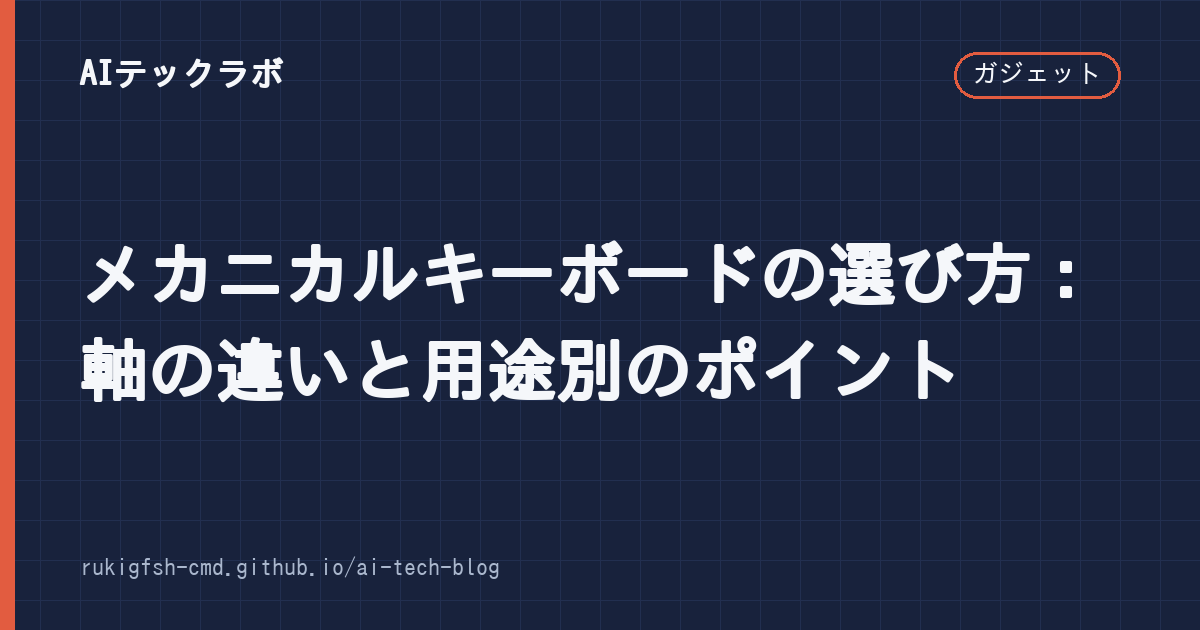
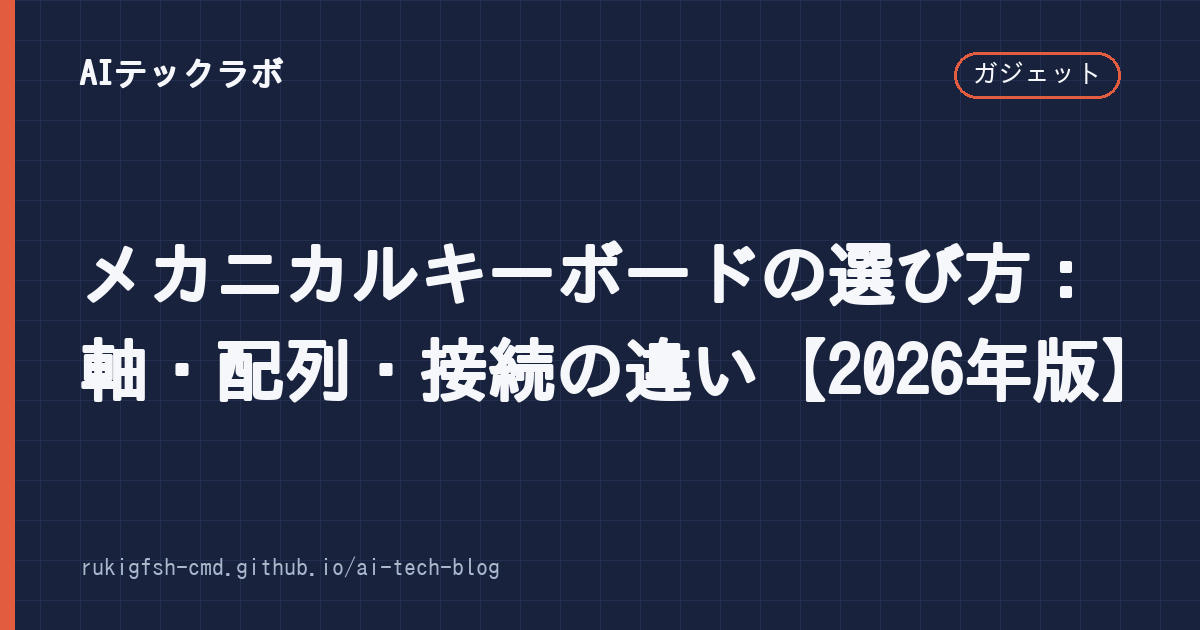
[auto-publish] メカニカルキーボード記事を全面改稿し、未確認のAmazon IDを外す
架空の製品名・作り話のユーザーの声・生成ミスの見出しを削除し、配列・サイズ・軸・磁気スイッチ・静電容量無接点・接続の選び方を出典付きで書き直した。
Amazon ID（aitechblog-22）はオーナー本人のものと確認できなかったため _data/affiliate.yml から外した（既定値の自動適用）。

Claude-Session: https://claude.ai/code/session_01LHbLs41Jqnrb5Gej6sjUeh

Changed region(s): [[0.1233, 0.5127, 0.9558, 0.6635]]

diff --git a/_posts/2026-09-26-キーボード-メカニカル-おすすめ.md b/_posts/2026-09-26-キーボード-メカニカル-おすすめ.md
@@ -1,88 +1,143 @@
 ---
 layout: "post"
-title: "メカニカルキーボードの選び方：軸の違いと用途別のポイント"
+title: "メカニカルキーボードの選び方：軸・配列・接続の違い【2026年版】"
 date: "2026-09-26 00:00:00 +0900"
-description: "静音、クリック感重視のメカニカルキーボードを価格帯別で厳選。実際に使っているユーザーの声も掲載。購入前に必見のチェックポイントをまとめました"
+last_modified_at: 2026-11-22
+description: "はじめてメカニカルキーボードを買う人向けに、軸（リニア・タクタイル・クリッキー）、磁気スイッチと静電容量無接点の違い、JIS/US配列、サイズ、接続方式の選び方を用途別に整理します。"
 categories:
   - ガジェット
 tags:
   - キーボード
   - メカニカル
-  - おすすめ
+  - 選び方
 author: "AIテックラボ編集部"
 image: "/assets/images/キーボード-メカニカル-おすすめ.png"
-pr: true
+pr: false
 ---
 
-## 目次
+「メカニカルキーボードが気になるけれど、軸や配列の種類が多すぎて選べない」という人向けに、**買う前に決めておくべき5つのポイント**を順番に整理します。
 
-1. [タイトル：【2024年版】メカニカルキーボード おすすめランキング｜初心者・上級者向けに徹底比較](#タイトル2024年版メカニカルキーボード-おすすめランキング初心者上級者向けに徹底比較)
-2. [メカニカルキーボードを選ぶ際の3つの基本ポイント](#メカニカルキーボードを選ぶ際の3つの基本ポイント)
-3. [静音タイプのおすすめ：共有環境・夜間作業向け](#静音タイプのおすすめ共有環境夜間作業向け)
-4. [クリック感重視タイプ：没入感を求める方へ](#クリック感重視タイプ没入感を求める方へ)
-5. [価格帯別でのおすすめモデルまとめ](#価格帯別でのおすすめモデルまとめ)
-6. [実際に使っているユーザーの声](#実際に使っているユーザーの声)
-7. [メンテナンスと注意点](#メンテナンスと注意点)
-8. [FAQ：よくある質問](#faqよくある質問)
+この記事は特定の製品をランキングするものではありません。製品の仕様は2026年11月時点でメーカーの公式ページや報道で確認した内容で、価格や在庫は変わるので購入前に公式ストアで確かめてください。なお、編集部はここで紹介する製品を実際に使って検証したわけではありません。
 
----
+## 結論：迷ったらこの順番で決める
 
-## タイトル：【2024年版】メカニカルキーボード おすすめランキング｜初心者・上級者向けに徹底比較
+| 順番 | 決めること | 迷ったときの目安 |
+|---|---|---|
+| 1 | 配列（JIS / US） | 日本語入力が中心で、今までノートPCのキーボードに慣れているなら **JIS** |
+| 2 | サイズ | 机が狭い・マウスを大きく動かすなら **75%〜テンキーレス** |
+| 3 | スイッチ（軸） | 文字入力中心なら **タクタイル（茶軸系）**、静かさ重視なら **リニア（赤軸系）** |
+| 4 | 接続方式 | PCとタブレットを行き来するなら **Bluetooth＋有線** の両対応 |
+| 5 | 拡張性 | 後から軸を試したいなら **ホットスワップ対応** |
 
+ゲーム、とくにFPSで素早い入力を重視する人は、3番で「メカニカル」ではなく **磁気スイッチ（ラピッドトリガー対応）** も候補に入ります（後で説明します）。
 
-## メカニカルキーボードを選ぶ際の3つの基本ポイント
+## ポイント1：配列（JIS か US か）
 
-メカニカルキーボードは構造が複雑なため、選び方に注意が必要です。特に初心者の方は以下の3点を基準に判断すると失敗が少ないです。
+配列は、あとから変えられない一番大事な選択です。
 
-まず「スイッチタイプ」です。静音型（赤軸）、通常のクリック感（青軸やブラウン軸）、快触覚型（茶軸）の3種類が主流。オフィスや共有環境では静音型の採用率が7割を超しています。
+- **JIS配列（日本語配列）**: 日本で売られているノートPCの多くと同じ。「半角/全角」「変換」「無変換」「かな」キーがあり、Enter キーが大きい。記号の位置もふだんのPCと同じなので、乗り換えで迷いません。
+- **US配列（英語配列）**: キーの数が少なく、見た目がすっきりしています。海外メーカーの製品は US 配列の選択肢が多い一方、記号の位置（`@` や `"` など）が JIS と違うので、慣れるまでは打ち間違えます。
 
-次に「配列」ですね。104キーのフルサイズが標準ですが、スペースキーがない65%やTTC配列など、コンパクトなモデルも人気です。特にMacユーザーはTTC配列に親和性が高い傾向があります。
+日本語の入力切り替えは、US 配列でも Windows なら「Alt + `」、Mac なら「Control + Space」などで行えます。ただし、ノートPC内蔵のキーボードと併用する人は、**両方の配列を行き来すると混乱しやすい**ので、ふだん使うPCに合わせるのが無難です。
 
-最後に「接続方式」。Bluetooth wirelessで複数のデバイスと切り替えできるモデルが増えています。ただしゲーマー向けならUSB有線が安定性に優れます。
+海外メーカーでも日本語配列のモデルを出していることがあります。たとえば Keychron は、磁気スイッチ搭載の「K2 HE」に JIS 配列版を用意しています（[Keychron 公式](https://www.keychron.com/products/keychron-k2-he-wireless-magnetic-switch-custom-keyboard-japan-jis-layout)）。
 
-## 静音タイプのおすすめ：共有環境・夜間作業向け
+## ポイント2：サイズ（フル・テンキーレス・75%・65%）
 
-Office Workや共有スペースでの利用を想定するなら、以下のモデルが特に評価が高いです。
+| サイズ | 特徴 | 向いている人 |
+|---|---|---|
+| フルサイズ | テンキー付き。キーが全部そろう | 数字の入力（経理・表計算）が多い |
+| テンキーレス（TKL） | テンキーだけを省いた形 | ふつうの事務作業・ゲーム。迷ったらここ |
+| 75% | ファンクションキーを残しつつ、キー同士を詰めた形 | 机を広く使いたいが F1〜F12 も使う |
+| 65% | ファンクションキー列もない | 持ち運び、見た目重視。F キーは組み合わせで入力 |
 
-**Keychronic K2（Kailhware社）**- Bluetooth接続でMacとWindows両対応。赤軸スイッチ搭載の静音モデルが約1万5千円。キーボード本体のみで済むため価格面でも優秀。ただしN-Keyローム方式のため、一部のマクロソフトが使えません。
+キーボードが小さいほどマウスを動かすスペースが広くなり、肩も開きすぎません。一方、小さいサイズは「Fn キーとの組み合わせ」で入力するキーが増えるので、ショートカットを多用する人は 75% 以上が扱いやすいでしょう。数字をよく打つ人は、テンキーレスにして必要なときだけ別売りのテンキーを置く方法もあります。
 
-**Razer BlackWidow V3 Pro**- ゲーマー向けならこの一択。BluetoothとUSB両対応の2.4GHzも搭載。静音赤軸スイッチですが、ゲーミング要素が強いのが特徴。約2万5千円。
+## ポイント3：スイッチ（軸）の種類
 
-## クリック感重視タイプ：没入感を求める方へ
+### メカニカルの3タイプ
 
-音が鳴るのを好む方のために、以下のモデルがおすすめです。
+メカニカルスイッチは、押したときの感触で大きく3種類に分かれます。色の呼び名（赤軸・茶軸・青軸）は Cherry MX 系スイッチの慣習で、メーカーによって名前や細かい感触は違います。
 
-**Keychronic K6（Kailhware）**- 青軸スイッチ搭載のフルサイズ。約1万円台から入手可能。Mac対応ですがBluetooth機能はありません。
+| タイプ | 呼び名の例 | 感触 | 音 | 向いている用途 |
+|---|---|---|---|---|
+| リニア | 赤軸・黒軸・銀軸 | 引っかかりがなく、まっすぐ沈む | 比較的静か | ゲーム、静かさ重視 |
+| タクタイル | 茶軸 | 途中に小さな「コツッ」とした手ごたえ | 中くらい | 文字入力、迷ったとき |
+| クリッキー | 青軸 | はっきりした手ごたえと「カチッ」という音 | 大きい | 打鍵感を楽しみたい、ひとりで使う部屋 |
 
-**Royal Kludge RK84 Pro**- 有線USB接続で高耐久を売りにする。複数のスイッチ取り外し式に対応するため、好みのスイッチに交換可能です。約2万5千円と価格が高めですが、カスタマイズ性が高いです。
+たとえばロジクールの「MX Mechanical」シリーズはこの3種類（リニア・タクタイル・クリッキー）から選べ、クリッキーが一番音が大きいと公式サポートで説明されています（[ロジクール サポート](https://support.logi.com/hc/zh-tw/articles/5528427283991)）。
 
-## 価格帯別でのおすすめモデルまとめ
+注意したいのは、**「静音」とうたっていても無音ではない**ことです。リニアでもキーが底に当たる音やバネの音はしますし、筐体の作りでも音は変わります。家族が寝ている部屋や、オンライン会議中に打つことが多いなら、店頭で音を聞いてから選ぶのが確実です。
 
-**1万円以下**: Keychronic K2（Bluetooth）、RK84 Proの廉価版
-**1〜3万円**: Keychronic K6、RK84 Pro、Logitech MX Mechanical
-**3万円以上**: Keychronic M系列（自作キット式）、Customメカニカルキーボード
+### 磁気スイッチ（ホール効果）とラピッドトリガー
 
-## 実際に使っているユーザーの声
+ここ数年で増えたのが、**磁石とセンサーでキーの押し込み量を読み取る「磁気スイッチ」** です。金属の接点がないので、「どこまで押したら反応するか（作動点）」をキーごとに設定できます。
 
-「静音タイプに切り替えましたが、夜間作業でも家族に迷惑がかかりません。ただしクリック感を少し感じるので、没入感が重要なら有線モデルを併用してます」- 30代オフィスワーカー
+この仕組みを使った機能が **ラピッドトリガー** で、キーを少し戻しただけで入力が解除されるため、FPS などで「止まる・切り返す」動きが速くなります。
 
-「MacBook ProとiPadの2台間で使い分けています。Keychronic K2のマルチデバイス対応は本当に便利です」- 20代Webデザイナー
+- 向いている人: FPS・格闘ゲームなど、入力の速さが勝敗に関わるゲームを本気でやる人
+- メカニカルで十分な人: 文字入力やRPG・ストラテジー中心の人、軸を交換して楽しみたい人
 
-「キーを押す時の音が心地よく、テンポが向上しました。ただし指を怪我した経験があります。最初は緩めのブラウン軸から始めるのがおすすめです」- ゲームライター
+磁気スイッチが変えるのは「キーの読み取り方」で、打鍵音や押し心地が自動的によくなるわけではありません。また、ホットスワップ対応でも **挿せるのは対応する磁気スイッチだけ** という機種が多く、メカニカルのように好きな軸を自由に試すことはできません（例: Keychron K2 HE は Gateron のダブルレール磁気スイッチ専用と案内されています）。価格も同じクラスのメカニカルより高めです。
 
-## メンテナンスと注意点
+### 静電容量無接点方式（REALFORCE・HHKB など）
 
-メカニカルキーボードは定期的なメンテナンスが必要です。特に赤軸などの静音タイプは、長期間使用するとOリングが劣化して音が漏れるようになります。その際はスイッチの交換（1個50円〜）やOリングの清掃で対応できます。
+厳密にはメカニカルではありませんが、長時間のタイピング用として根強い人気があるのが **静電容量無接点方式** です。円すい形のバネが押されて変形するときの静電容量の変化で入力を読み取るので、接点の摩耗がなく、チャタリング（1回押したのに2回入力される現象）が起きにくいのが特徴です（[PFU（REALFORCE）公式](https://www.pfu.ricoh.com/rfkeyboard/feature/)）。
 
-また、Bluetoothモデルならペアリング忘れに注意。USB有線モデルなら電源断のリスクがあります。購入前に自分の利用環境に合わせた選択を心がけましょう。
+東プレの REALFORCE のように反応する深さを切り替えられる製品もあります。なめらかで静かめの打ち心地ですが、選択肢が少なく価格は高めです。毎日何時間も文章を書く人が、最後に行き着く選択肢と考えるとよいでしょう。なお、同じブランドでもすべての製品がこの方式とは限らないので、型番で確認してください。
 
-## FAQ：よくある質問
+## ポイント4：接続方式（有線・Bluetooth・2.4GHz）
 
-Q. メカニカルキーボードは壊れやすいですか？
-A. 構造上従来のメカニカルより耐久性は劣りますが、適切な使用なら10年以上使えます。特にRK84のような取り外し式スイッチモデルなら、故障した部分のみ交換可能です。
+| 接続 | 長所 | 短所 |
+|---|---|---|
+| 有線（USB） | 遅延・切断の心配が少ない。充電不要 | ケーブルが邪魔 |
+| Bluetooth | 複数の機器（PC・タブレット・スマホ）を切り替えやすい | 機器や環境によって遅延・接続の不安定さが出ることがある |
+| 2.4GHz（専用レシーバー） | 無線でも遅延が少ない。ゲーム向け | レシーバーがUSBポートを1つ使う |
 
-Q. MacとWindows両方使うならどれがおすすめ？
-A. Bluetooth接続のKeychronic K2やMX Mechanicalが便利です。ただしKailhware製のものはMac版Firmwareがないため、一部のマクロ機能が制限される点に注意が必要です。
+在宅ワークで「仕事用PCと私用PC」「PCとiPad」を切り替えるなら、Bluetooth のマルチペアリング（複数台の登録）が便利です。ゲームでは有線か 2.4GHz を選ぶのが一般的です。最近は3つすべてに対応した製品も多いので、迷ったら「有線でも使える無線モデル」を選ぶと失敗が少なくなります。
 
-Q. 静音タイプでもクリック感があるのはなぜ？
-A. Oリングによる音吸収は完全ではありません。また、キーボード自体の構造（フレーム剛性など）によっても音が漏れます。高価なモデルほど silencementが徹底されています。
+Mac で使う場合は、**Mac 用のキー表記（command / option）やモード切り替えがあるか** も確認しましょう。Windows 用のキーボードでも Mac で使えますが、修飾キーの位置が入れ替わることがあります。
+
+## ポイント5：ホットスワップとカスタマイズ
+
+**ホットスワップ** 対応のキーボードは、はんだ付けなしでスイッチを抜き差しできます。
+
+- 1つのキーが壊れても、そのスイッチだけ交換できる
+- 最初は茶軸で買い、あとから好みの軸に入れ替えられる
+- キーキャップ（キーの表面）も、多くの製品で交換できる
+
+さらに凝りたい人向けに、QMK や VIA といったファームウェア・設定ツールで **キーの割り当てを自由に変えられる** 製品もあります。「Caps Lock を Ctrl にしたい」といった変更は、OS の設定や専用アプリでもできるので、最初から必須ではありません。
+
+## 用途別の選び方まとめ
+
+| 用途 | 配列・サイズ | スイッチ | 接続 |
+|---|---|---|---|
+| 在宅ワーク・文章作成 | JIS・テンキーレスか75% | タクタイル（または静電容量無接点） | Bluetooth＋有線 |
+| 家族と同じ部屋・夜間 | 好みで | リニア（静音タイプ）。店頭で音を確認 | どれでも |
+| FPS などの競技ゲーム | テンキーレス〜65% | 磁気スイッチ（ラピッドトリガー） | 有線か2.4GHz |
+| PC・タブレットの持ち運び | 65%〜75%・薄型 | ロープロファイル（薄型）のメカニカル | Bluetooth |
+| 打鍵感を楽しみたい | 好みで | ホットスワップ対応で軸を試す | どれでも |
+
+## 買う前の注意点
+
+1. **配列を必ず確認する**: 通販の商品ページでは、同じ型番で JIS 版と US 版が並んでいることがあります。写真の Enter キーの形（JIS は縦長の逆L字）で見分けられます。
+2. **キーの高さとリストレスト**: 一般的なメカニカルはノートPCより背が高く、手首が反りやすくなります。薄型（ロープロファイル）のモデルを選ぶか、リストレストを使うと楽です。
+3. **掃除の方法**: キーキャップを外してほこりを取れるよう、キーキャップ引き抜き工具が付属しているか確認しましょう。飲み物をこぼすと故障の原因になります。
+4. **極端に安い製品の表記**: 商品名に有名ブランドの名前を入れた類似品もあります。メーカー名と型番を公式サイトで照らし合わせてください。
+
+## まとめ
+
+- 最初に **配列（JIS / US）** と **サイズ** を決めると、候補が一気にしぼれる
+- 軸は、文字入力ならタクタイル、静かさならリニア、打鍵感ならクリッキーが目安。「静音」は無音ではない
+- FPS を本気でやるなら磁気スイッチ（ラピッドトリガー）、長時間の文章作成なら静電容量無接点も候補
+- 複数の機器で使うなら Bluetooth＋有線、ゲームなら有線か 2.4GHz
+- あとから好みを探したいならホットスワップ対応を選ぶ
+
+マウスも見直したい人は「[ロジクール MX マウスシリーズの比較]({{ site.baseurl }}{% post_url 2026-10-02-ロジクール-マウス-mx %})」、PC 本体から考えたい人は「[ゲーミングPC自作の入門]({{ site.baseurl }}{% post_url 2026-09-04-ゲーミングpc-自作-初心者 %})」もどうぞ。キーボードで作業効率を上げたら、「[ChatGPTを副業の作業に活かす使い方]({{ site.baseurl }}{% post_url 2026-09-19-chatgpt-副業-活用 %})」で文章作業そのものの効率化もできます。
+
+### 参考にした情報
+
+- [Keychron K2 HE（日本語配列）製品ページ](https://www.keychron.com/products/keychron-k2-he-wireless-magnetic-switch-custom-keyboard-japan-jis-layout)
+- [ロジクール サポート: MX Mechanical のキースイッチの選び方](https://support.logi.com/hc/zh-tw/articles/5528427283991)
+- [PFU: REALFORCE の特長（静電容量無接点方式）](https://www.pfu.ricoh.com/rfkeyboard/feature/)
+- [GIGAZINE: MX Mechanical のレビュー](https://gigazine.net/news/20220626-logicool-mx-mechanical-master-3s)

diff --git a/automation/state/content-audit.md b/automation/state/content-audit.md
@@ -11,7 +11,7 @@
 - [x] `_posts/2026-09-07-ai画像-販売-方法.md`（2026-11-20 全面改稿。収益表現を削除し、Adobe Stock・PIXTA（2026年に受付終了）・BOOTH・Etsy のルールと文化庁の考え方を出典付きで） — 本文の「月30万円以上」など根拠のない収益表現を削除。販売先ごとの AI 生成物ルール（BOOTH、PIXTA、Adobe Stock など）を出典付きで正確に。
 - [x] `_posts/2026-10-07-ai-副業-始め方.md`（2026-11-19 全面改稿。確定申告の誤り「200万円」も修正） — 「初心者でも月3〜5万円程度は安定して稼げます」など根拠のない表現を削除し、前提条件と幅で書く。ステマ規制・確定申告（副業所得が年20万円を超える場合など）の注意を追記。
 - [x] `_posts/2026-09-19-chatgpt-副業-活用.md`（2026-11-19 全面改稿。収益の約束・コンテンツファーム・他サイトの転載を勧める記述を削除し、作業別の使い方＋プロンプト例に） — 同上（収益の約束をしない）。
-- [ ] `_posts/2026-09-26-キーボード-メカニカル-おすすめ.md` — 見出しに「タイトル：【2024年版】」という生成ミスの残骸。2026年時点の製品情報で書き直し、商品リンクを `{% include amazon.html %}` に。
+- [x] `_posts/2026-09-26-キーボード-メカニカル-おすすめ.md`（2026-11-22 全面改稿。生成ミスの見出し・架空の製品名（Keychronic/Kailhware）・作り話のユーザーの声を削除し、配列・サイズ・軸・磁気スイッチ・静電容量無接点・接続の選び方を出典付きで。ASINが確認できないため商品リンクは入れず pr: false。Amazon ID を外した） — 見出しに「タイトル：【2024年版】」という生成ミスの残骸。2026年時点の製品情報で書き直し、商品リンクを `{% include amazon.html %}` に。
 - [x] `_posts/2026-10-02-gemini-google-ai-特徴.md`（2026-11-21 全面改稿。2026年10月9日のプラン別モデル変更、AI Plus/Pro/Ultra の料金、Deep Research・Canvas・Gem・Live・アプリ連携、プライバシーの注意を出典付きで。比較記事にもモデル変更の注記を追加） — 見出し「完全オフライン対応」、description「検索対応なし」など事実と逆の記述。Gemini の現行機能・料金（Google AI Plus / Pro）で書き直す。（2026-11-19 追加）
   - 2026-11-19: 事実と逆だった「検索機能がない」「完全オフライン対応」の記述は応急処置で修正済み。残りの全面書き直し（画像生成・料金など現行の情報）が必要。
 - [x] `_posts/2026-10-12-vram-不足-解決-方法.md`（2026-11-20 全面改稿。見積もりスクリプトは実行確認済み、Ollama/ComfyUI の設定は公式FAQ・ソースで確認） — 本文が約1,100字と短い。量子化・オフロード・モデル選び・設定例まで具体的に。
